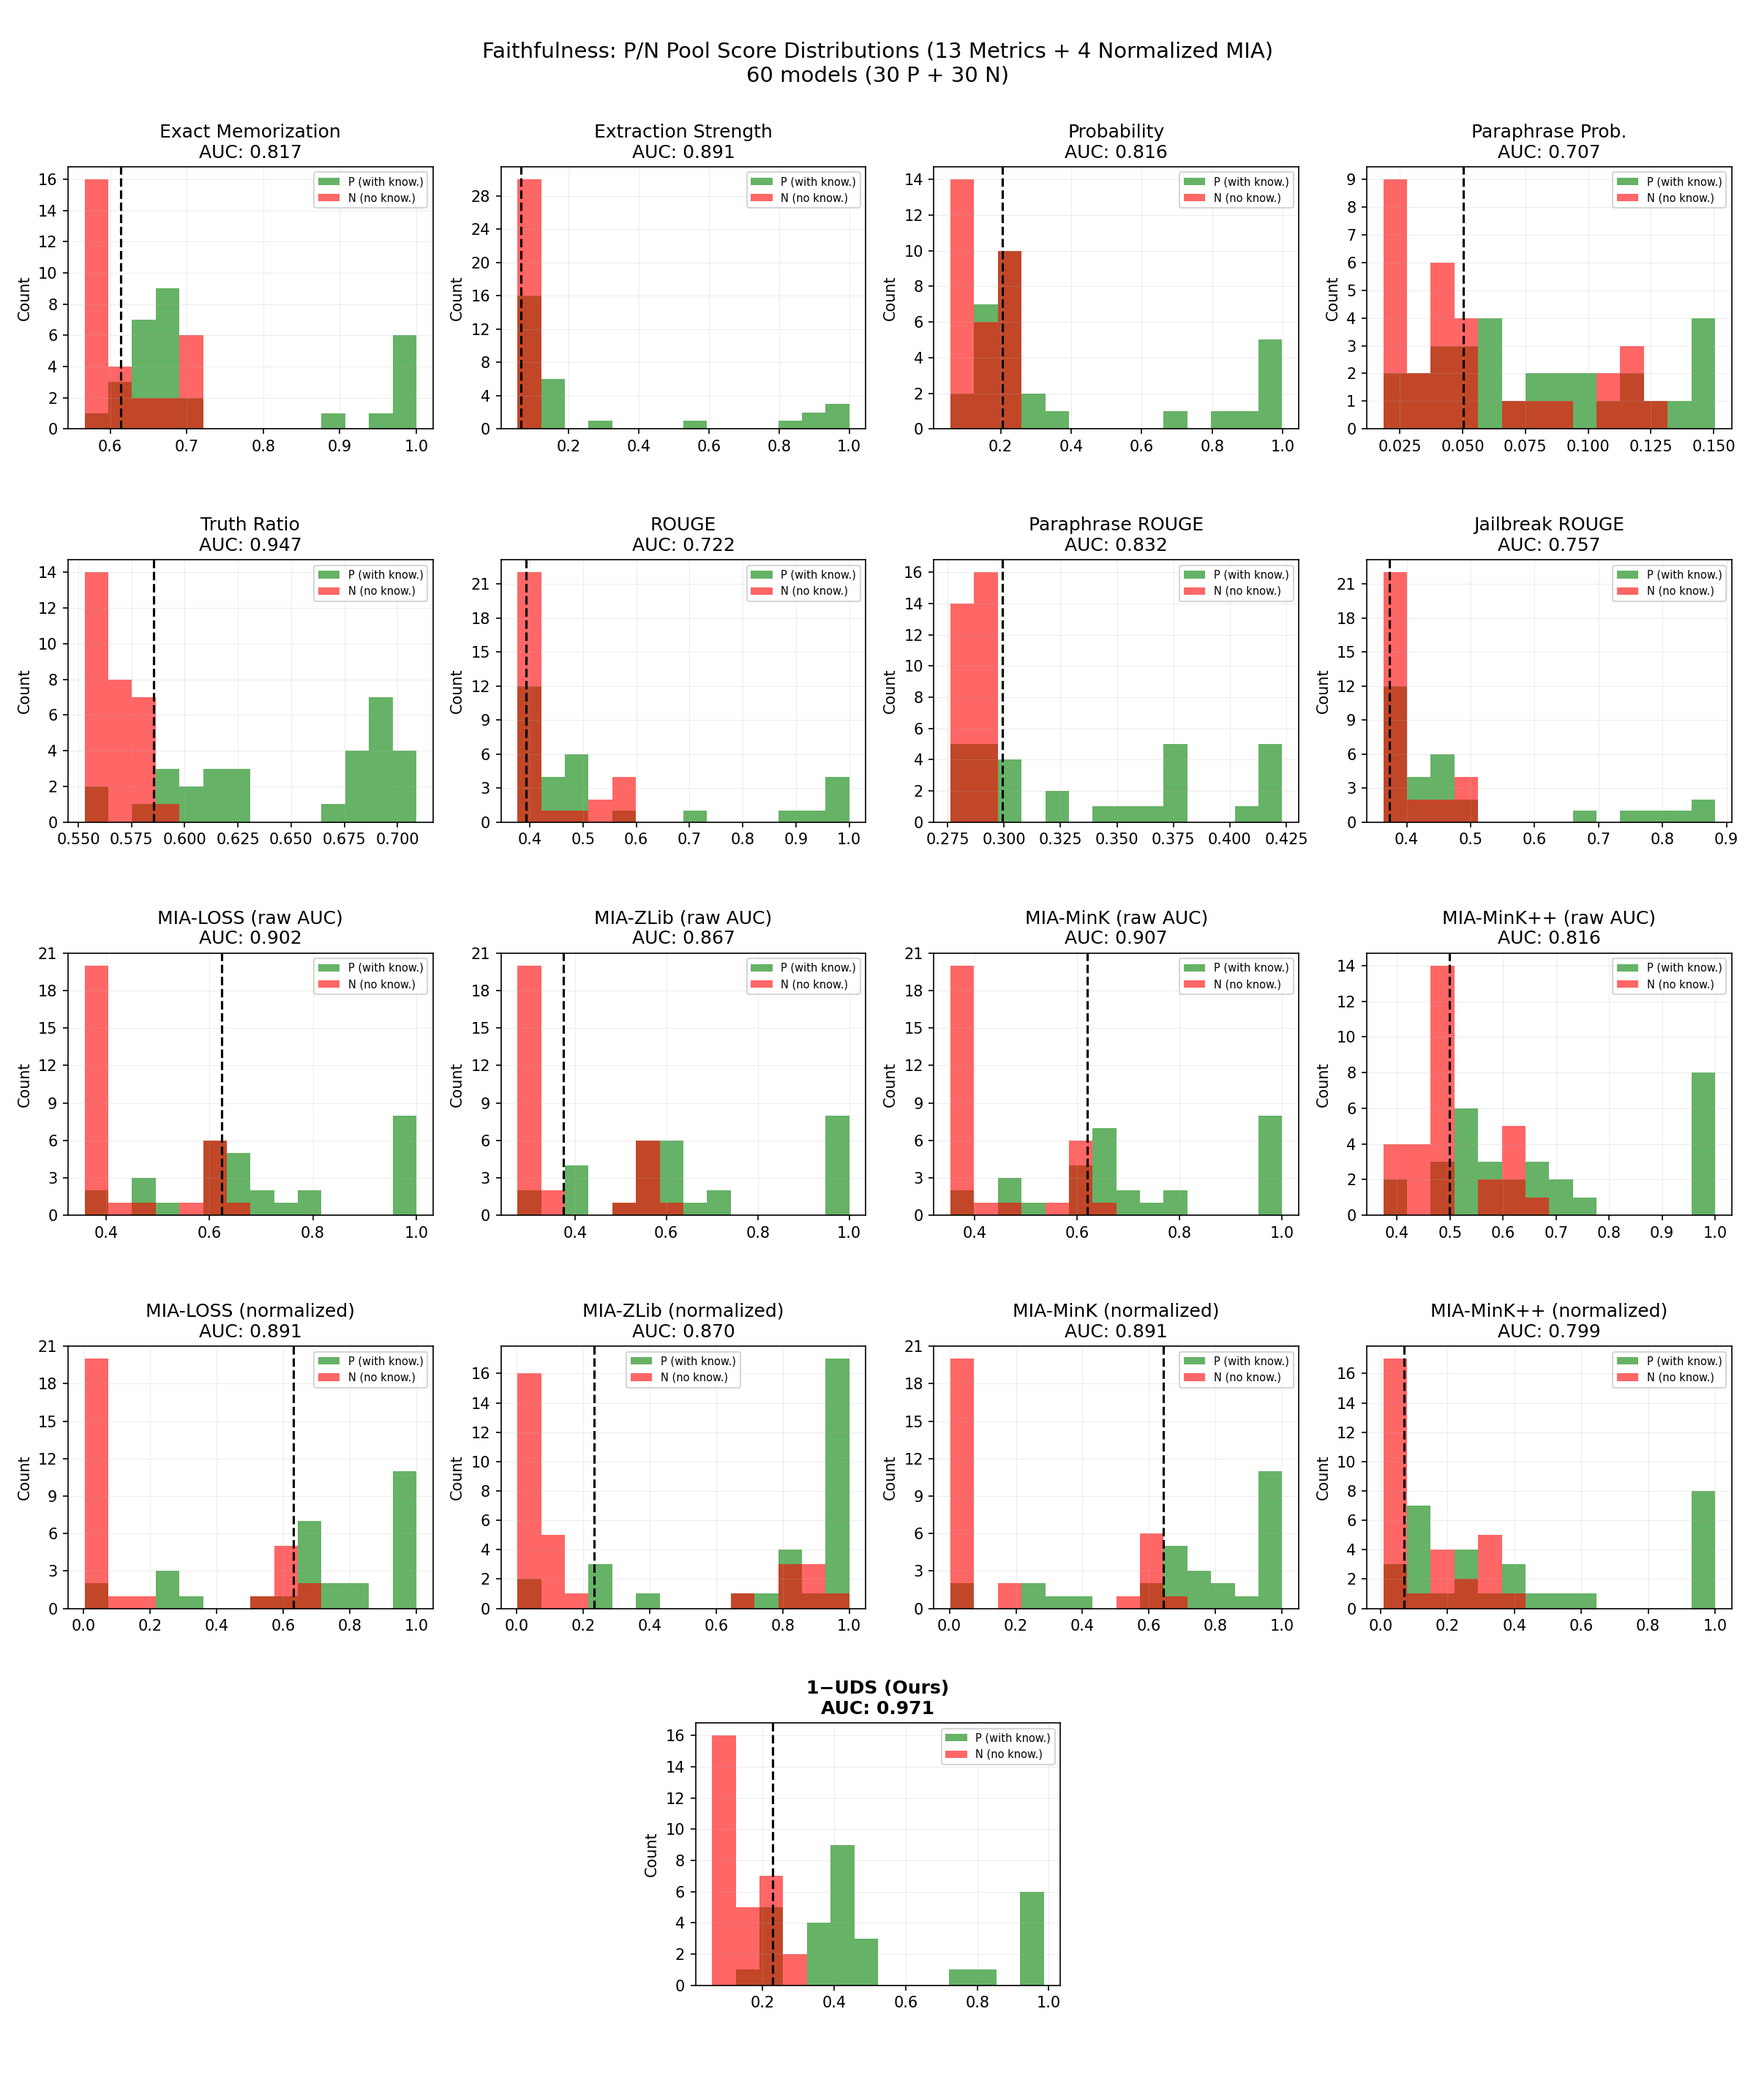
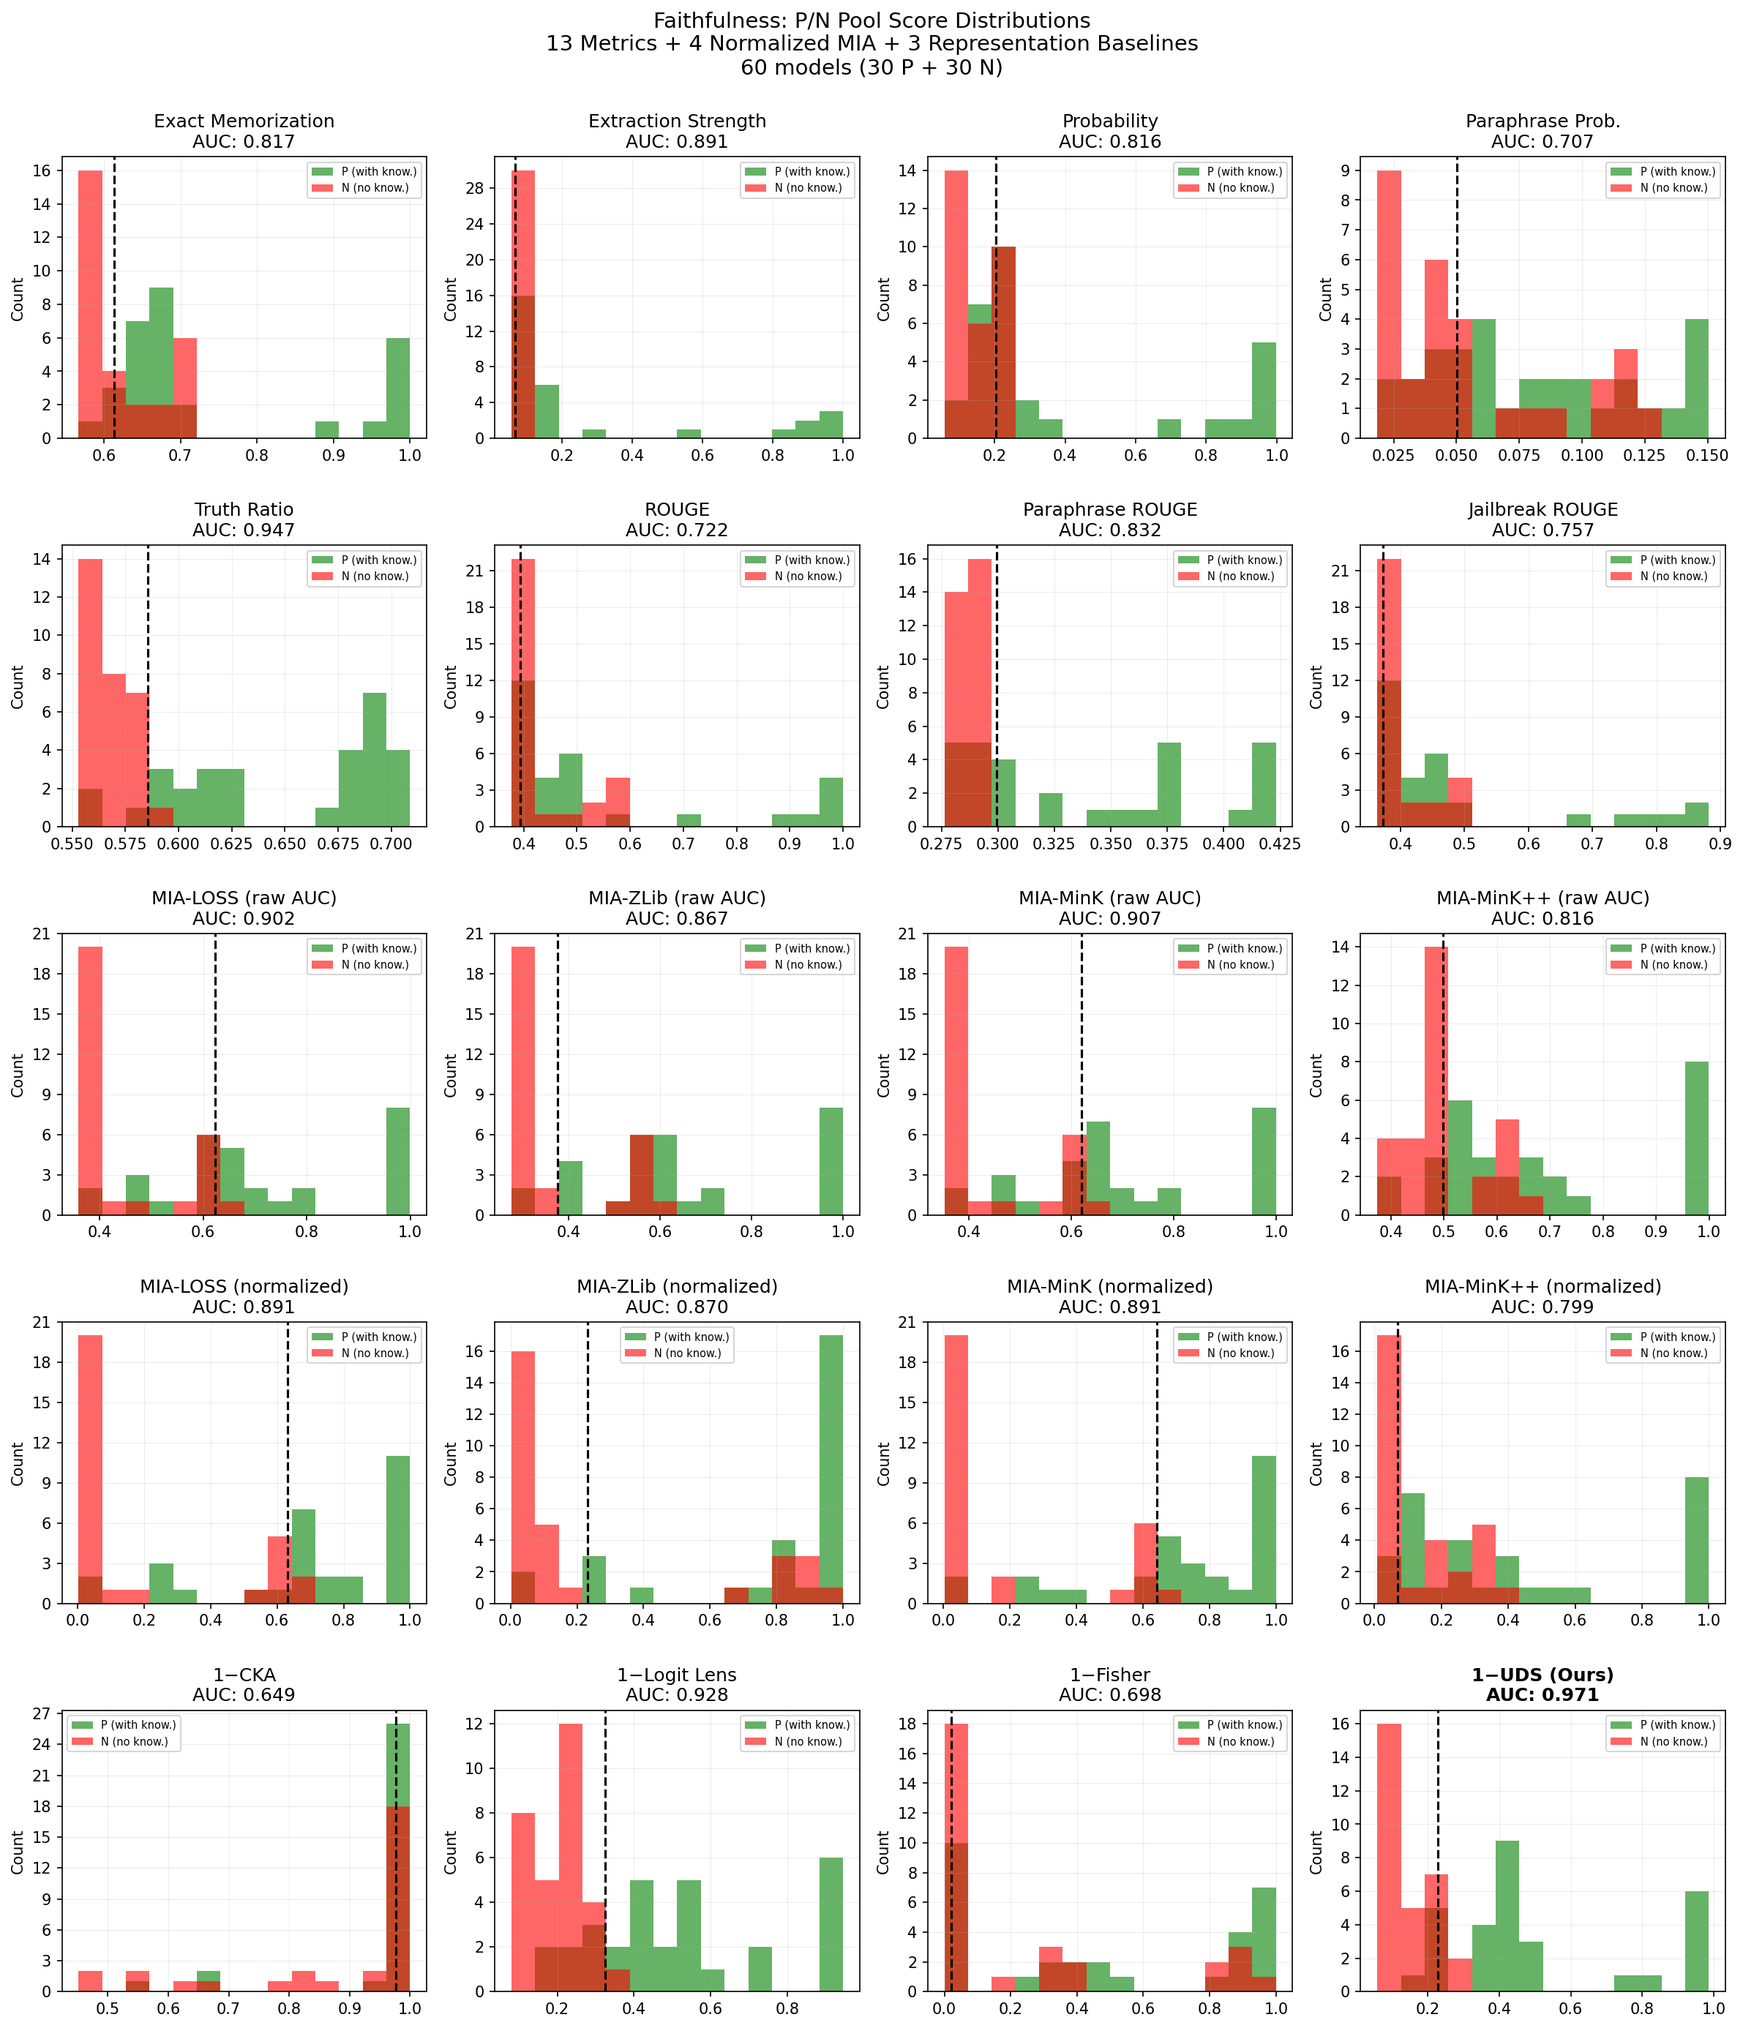
Update meta-evaluation section in openunlearning_alpha_all.html
- Revised the metrics evaluation count to 20 (13 base + 4 normalized MIA + 3 representation baselines) and updated the corresponding descriptions.
- Added detailed explanations for the new representation-level metrics: CKA, Logit Lens, and Fisher Information, including their formulas and significance.
- Enhanced the visual layout of robustness scatter plots for better clarity and added utility filter descriptions.
- Adjusted the hint section to clarify the reference model requirement.

These changes improve the accuracy and comprehensiveness of the meta-evaluation framework.

diff --git a/docs/openunlearning_alpha_all.html b/docs/openunlearning_alpha_all.html
@@ -174,7 +174,7 @@ button.toggle-btn:hover { text-decoration: underline; }
   <h2>Meta-evaluation</h2>
   <div class="card">
     <p style="margin:0 0 12px 0;">
-      This section evaluates <strong>13 metrics</strong> (+ 4 normalized MIA variants) across 5 categories to measure <strong>how reliable each unlearning metric is</strong>, using the Open-Unlearning benchmark framework.
+      This section evaluates <strong>20 metrics</strong> (13 base + 4 normalized MIA + 3 representation baselines) across 6 categories to measure <strong>how reliable each unlearning metric is</strong>, using the Open-Unlearning benchmark framework.
     </p>
     <p style="margin:0 0 12px 0;">
       <strong>Faithfulness</strong>: How well each metric separates knowledge-present (P, 30 models) vs knowledge-absent (N, 30 models), measured by AUC-ROC.<br>
@@ -182,7 +182,7 @@ button.toggle-btn:hover { text-decoration: underline; }
     </p>
 
     <div class="formula-box" style="margin:0 0 14px 0;">
-      <div><strong>Metric Categories (13 + 4 normalized)</strong></div>
+      <div><strong>Metric Categories (13 + 4 normalized + 3 representation)</strong></div>
 
       <div style="margin-top:10px;">
         <strong>Memorization</strong> (5) &mdash; Does the model still retain memorized target knowledge?<br>
@@ -218,6 +218,13 @@ button.toggle-btn:hover { text-decoration: underline; }
       </div>
 
       <div style="margin-top:10px;">
+        <strong>Representation Baselines</strong> (3) &mdash; Representation-level metrics that measure knowledge erasure by comparing hidden-state geometry or parameter sensitivity between unlearned, retain, and full models. All three require the retain model as reference.<br>
+        <code>CKA</code> (Centered Kernel Alignment; Kornblith et al., 2019) &mdash; measures representational similarity between two models by comparing their hidden-state kernel matrices. Per-layer CKA(H<sub>unl</sub>, H<sub>ret</sub>) quantifies how similar unlearned representations are to retain; weighted by how much each layer differs between full and retain. <span class="sub-formula">score = &Sigma;<sub>l</sub> w<sub>l</sub> &middot; CKA(H<sub>unl</sub>, H<sub>ret</sub>)<sub>l</sub>, &ensp; w<sub>l</sub> = 1 &minus; CKA(H<sub>full</sub>, H<sub>ret</sub>)<sub>l</sub>. &ensp; Dataset-level (400 examples).</span><br>
+        <code>Logit Lens</code> (nostalgebraist, 2020) &mdash; probes intermediate hidden states by passing them through the full model&rsquo;s frozen decoder (LayerNorm + lm_head) to read out entity logprobs at each layer. Measures how much knowledge is decodable from each layer&rsquo;s representation. <span class="sub-formula">k<sub>m,l</sub> = logprob(entity | H<sup>l</sup><sub>m</sub> &rarr; decoder<sub>full</sub>), &ensp; d<sub>m,l</sub> = k<sub>full,l</sub> &minus; k<sub>m,l</sub>. &ensp; Per-example, per-layer.</span><br>
+        <code>Fisher</code> (Kirkpatrick et al., 2017) &mdash; diagonal Fisher Information measures parameter sensitivity to forget-set examples. Layers where retain has higher Fisher than full indicate knowledge-relevant parameters. Compares unlearned model&rsquo;s Fisher excess against the full&rarr;retain gap. <span class="sub-formula">F<sub>l</sub> = log1p(mean<sub>&theta;</sub>(g<sup>2</sup><sub>&theta;</sub>)), &ensp; excess<sub>l</sub> = max(F<sub>ret</sub> &minus; F<sub>full</sub>, 0). &ensp; Dataset-level, per-layer mean over all parameters.</span>
+      </div>
+
+      <div style="margin-top:10px;">
         <strong>UDS (Ours)</strong> (1) &mdash; Output suppression &ne; knowledge erasure. UDS measures whether knowledge remains recoverable from internal representations via activation patching.<br>
         <span class="sub-formula">&Delta;<sup>S1</sup><sub>l</sub> = logprob drop patching retain &rarr; full (baseline gap) &ensp;&middot;&ensp; &Delta;<sup>S2</sup><sub>l</sub> = logprob drop patching unlearned &rarr; full (test gap)</span><br>
         <span class="sub-formula">FT = { l : &Delta;<sup>S1</sup><sub>l</sub> &gt; &tau; } (&tau;=0.05) &ensp;&middot;&ensp; UDS<sub>i</sub> = &Sigma;<sub>l&isin;FT</sub> [&Delta;<sup>S1</sup><sub>l</sub> &middot; clip(&Delta;<sup>S2</sup><sub>l</sub>/&Delta;<sup>S1</sup><sub>l</sub>, 0, 1)] / &Sigma;<sub>l&isin;FT</sub> &Delta;<sup>S1</sup><sub>l</sub></span><br>
@@ -246,7 +253,7 @@ button.toggle-btn:hover { text-decoration: underline; }
     </div>
   </div>
 
-  <div class="hint">Per column: <strong>best</strong> value is bold, <u>second-best</u> is underlined. &ensp; <span style="background:#f3f0ff;padding:2px 6px;border-radius:3px;">Shaded</span> = requires retain model as reference.</div>
+  <div class="hint">Per column: <strong>best</strong> value is bold, <u>second-best</u> is underlined. &ensp; <span style="background:#f3f0ff;padding:2px 6px;border-radius:3px;">Purple</span> = requires retain model as reference.</div>
   <div class="table-wrap">
     <table class="styled" id="meta_eval">
       <thead>
@@ -276,14 +283,28 @@ button.toggle-btn:hover { text-decoration: underline; }
   </details>
   <details style="margin-top:10px;">
     <summary style="cursor:pointer;font-weight:600;font-size:14px;color:#444;">Robustness: Quantization Scatter Plots</summary>
-    <div style="margin-top:10px;text-align:center;">
-      <img src="figs/quant_robustness.png" alt="Quantization robustness scatter" style="max-width:700px;width:100%;height:auto;">
+    <div style="margin-top:10px;display:flex;gap:12px;align-items:flex-start;justify-content:center;flex-wrap:wrap;">
+      <div style="text-align:center;flex:1;min-width:340px;">
+        <div style="font-size:12px;font-weight:600;color:#555;margin-bottom:4px;">Utility + Faithfulness Filter</div>
+        <img src="figs/quant_robustness.png" alt="Quantization robustness scatter (usable)" style="max-width:100%;height:auto;">
+      </div>
+      <div style="text-align:center;flex:1;min-width:340px;">
+        <div style="font-size:12px;font-weight:600;color:#555;margin-bottom:4px;">Utility Filter Only</div>
+        <img src="figs/quant_robustness_utility_only.png" alt="Quantization robustness scatter (utility only)" style="max-width:100%;height:auto;">
+      </div>
     </div>
   </details>
   <details style="margin-top:10px;">
     <summary style="cursor:pointer;font-weight:600;font-size:14px;color:#444;">Robustness: Relearning Scatter Plots</summary>
-    <div style="margin-top:10px;text-align:center;">
-      <img src="figs/relearn_robustness.png" alt="Relearning robustness scatter" style="max-width:700px;width:100%;height:auto;">
+    <div style="margin-top:10px;display:flex;gap:12px;align-items:flex-start;justify-content:center;flex-wrap:wrap;">
+      <div style="text-align:center;flex:1;min-width:340px;">
+        <div style="font-size:12px;font-weight:600;color:#555;margin-bottom:4px;">Utility + Faithfulness Filter</div>
+        <img src="figs/relearn_robustness.png" alt="Relearning robustness scatter (usable)" style="max-width:100%;height:auto;">
+      </div>
+      <div style="text-align:center;flex:1;min-width:340px;">
+        <div style="font-size:12px;font-weight:600;color:#555;margin-bottom:4px;">Utility Filter Only</div>
+        <img src="figs/relearn_robustness_utility_only.png" alt="Relearning robustness scatter (utility only)" style="max-width:100%;height:auto;">
+      </div>
     </div>
   </details>
 
@@ -503,7 +524,7 @@ function renderMetaEval() {
   let html = '';
   rows.forEach((r, i) => {
     const classes = [];
-    if (r.key === 'uds' || r.key.startsWith('s_mia_')) classes.push('retain-dep');
+    if (r.key === 'uds' || r.key.startsWith('s_mia_') || r.category === 'representation') classes.push('retain-dep');
 
     const isUds = r.key === 'uds';
     let label = r.label.replace(/^s_(.+)$/, 's<sub>$1</sub>');
@@ -555,7 +576,7 @@ function renderMetaEval() {
     }
 
     // 2) Key pattern
-    msg += `<br>Relearning robustness is the main bottleneck: avg Q=${avgQ.toFixed(2)} vs avg R=${avgR.toFixed(2)} (<strong>${lowR}/${validR.length}</strong> metrics have R&lt;0.5).`;
+    msg += `<br>Relearning robustness is the main bottleneck: avg Q=${avgQ.toFixed(2)} vs. avg R=${avgR.toFixed(2)} (<strong>${lowR}/${validR.length}</strong> metrics have R&lt;0.5).`;
 
     // 3) Trade-off example
     if (highFaithLowRob.length > 0) {
